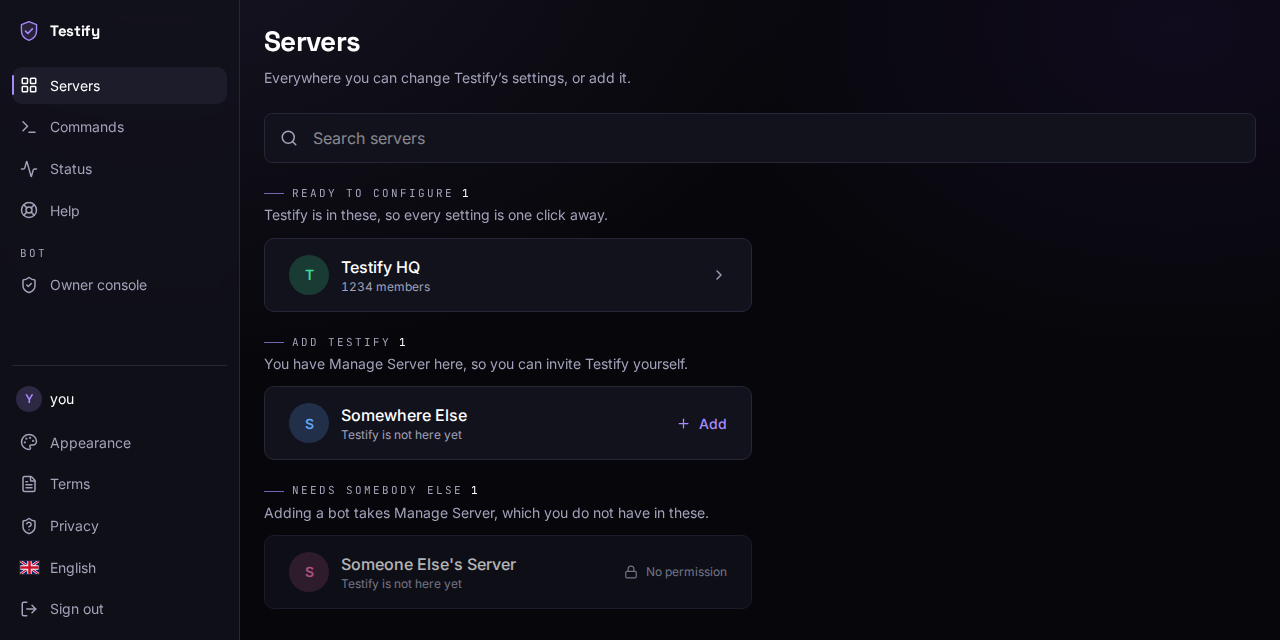
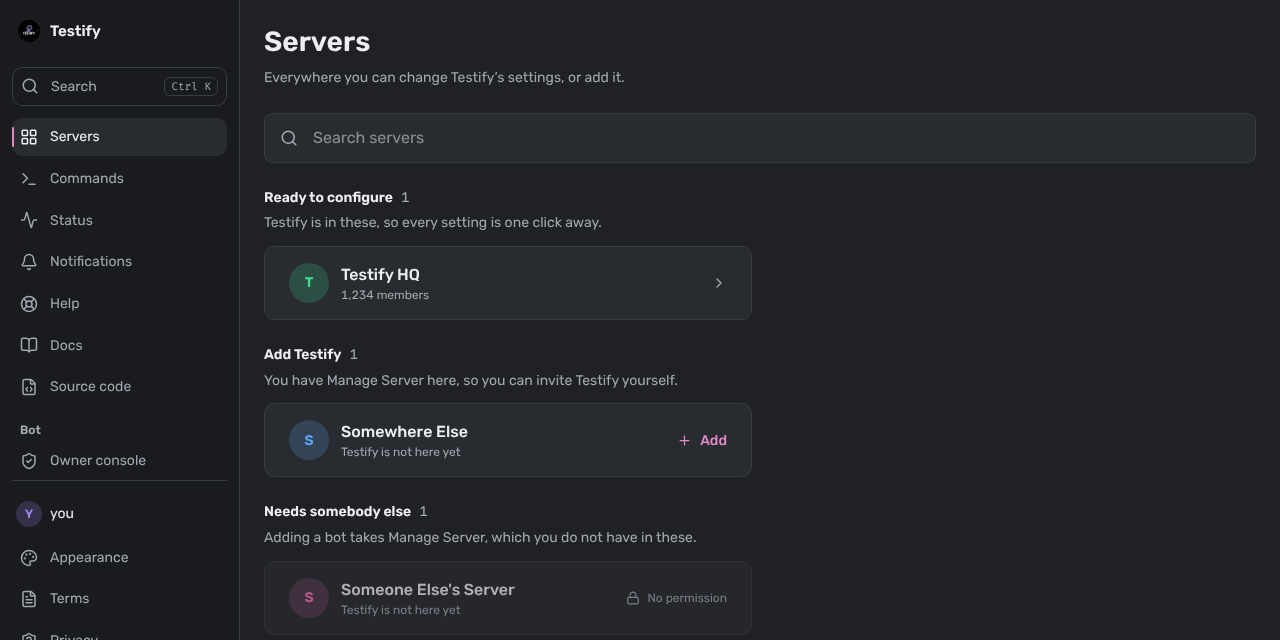
docs: Re-shot the README's dashboard screenshots in the new look

diff --git a/docs/dashboard/screenshots/README.md b/docs/dashboard/screenshots/README.md
@@ -18,20 +18,20 @@ fork carries them.**
 
 ## 🖼 The set
 
-| File                | Route                              | Theme | Size       |
-| ------------------- | ---------------------------------- | ----- | ---------- |
-| `overview.png`      | `/guilds/:guildId`                 | dark  | viewport   |
-| `guilds.png`        | `/guilds`                          | dark  | 640px tall |
-| `levelling.png`     | `/guilds/:guildId/levelling`       | light | viewport   |
-| `insights.png`      | `/guilds/:guildId/insights`        | dark  | whole page |
-| `warnings.png`      | `/guilds/:guildId/warnings`        | light | whole page |
-| `member.png`        | `/guilds/:guildId/members/:userId` | dark  | whole page |
-| `status.png`        | `/status`                          | dark  | whole page |
-| `casino.png`        | `/guilds/:guildId/casino`          | dark  | whole page |
-| `settings.png`      | `/guilds/:guildId/settings`        | dark  | viewport   |
-| `help.png`          | `/help`                            | light | 860px tall |
-| `appearance.png`    | `/appearance`                      | light | viewport   |
-| `owner-console.png` | `/owner?tab=usage`                 | dark  | viewport   |
+| File                | Route                              | Theme | Size        |
+| ------------------- | ---------------------------------- | ----- | ----------- |
+| `overview.png`      | `/guilds/:guildId`                 | dark  | 800px tall  |
+| `guilds.png`        | `/guilds`                          | dark  | 640px tall  |
+| `levelling.png`     | `/guilds/:guildId/levelling`       | light | 720px tall  |
+| `insights.png`      | `/guilds/:guildId/insights`        | dark  | whole page  |
+| `warnings.png`      | `/guilds/:guildId/warnings`        | light | whole page  |
+| `member.png`        | `/guilds/:guildId/members/:userId` | dark  | 1400px tall |
+| `status.png`        | `/status`                          | dark  | whole page  |
+| `casino.png`        | `/guilds/:guildId/casino`          | dark  | whole page  |
+| `settings.png`      | `/guilds/:guildId/settings`        | dark  | 900px tall  |
+| `help.png`          | `/help`                            | light | 860px tall  |
+| `appearance.png`    | `/appearance`                      | light | 900px tall  |
+| `owner-console.png` | `/owner?tab=usage`                 | dark  | 900px tall  |
 
 Both themes appear on purpose: a reader deciding whether to run this should see that the light one is real rather
 than an afterthought.
@@ -47,9 +47,13 @@ self-hoster a browser download for something only a maintainer runs.
 3. **Answer `/api/**` from the test stubs.** The handlers in `dashboard/src/test/handlers.ts` serve the same fake
    data the test suite uses, from `dashboard/src/test/fixtures/`; MSW's `getResponse(handlers, request)` turns an intercepted request into a response
    outside a browser. Put any override first in the list — the first handler that matches wins.
-4. **Set the theme before the page loads**, by writing `light` or `dark` to `localStorage` under `testify:theme`,
-   and turn reduced motion on so the backdrop is not caught mid-drift.
-5. **Load the route at 1280px wide** and wait for the network to settle. For a whole page, resize the viewport to
+4. **Set the theme before the page loads**, by writing `light` or `dark` to `localStorage` under `testify:theme`.
+   Override the stubs so the server is `Testify HQ` and the account `you`, give the overview a few features, a
+   missing permission and recent changes, and give the usage tab a month of runs, so each picture shows what its
+   caption says.
+5. **Answer `cdn.discordapp.com` with `dashboard/public/icon-512.png`**, so the bot wears its own picture rather than
+   the initial it falls back to when Discord's CDN cannot be reached.
+6. **Load the route at 1280px wide** and wait for the network to settle. For a whole page, resize the viewport to
    the page's own height before the shot rather than using a full-page capture — the sidebar is as tall as the
    viewport, and a full-page capture leaves it stopping part-way down.
 

diff --git a/README.md b/README.md
@@ -567,7 +567,7 @@ Discord and served **from inside the bot process** — no second service to depl
 > **It is off by default, and a bot-only install needs none of this.** Leave `DASHBOARD_ENABLED` unset and
 > nothing below applies.
 
-It follows your device's light or dark setting out of the box, comes in twelve accent colours, and speaks
+It follows your device's light or dark setting out of the box, comes in twelve accent colours or one you pick yourself, and speaks
 **English, Spanish, German, French, Italian and Russian** — picked from the browser's own language and changeable
 from the Appearance screen. All of it is per browser: nothing you choose there affects anybody else.
 
@@ -591,11 +591,11 @@ from the Appearance screen. All of it is per browser: nothing you choose there a
 </tr>
 <tr>
 <td valign="top"><img alt="Casino settings: the casino switch, a switch per game and the bet limits" src="docs/dashboard/screenshots/casino.png"><br><sub><b>Casino</b> — open it, switch games off, set bet limits</sub></td>
-<td valign="top"><img alt="Server settings, each card a description beside its controls" src="docs/dashboard/screenshots/settings.png"><br><sub><b>Settings</b> — the switches with no screen of their own</sub></td>
+<td valign="top"><img alt="Server settings as rows, each setting's name beside its control" src="docs/dashboard/screenshots/settings.png"><br><sub><b>Settings</b> — the switches with no screen of their own</sub></td>
 </tr>
 <tr>
 <td valign="top"><img alt="The help page: ask a question, first steps and what each section is for" src="docs/dashboard/screenshots/help.png"><br><sub><b>Help</b> — answers from written articles, nothing made up</sub></td>
-<td valign="top"><img alt="The appearance screen: theme, accent, motion and language" src="docs/dashboard/screenshots/appearance.png"><br><sub><b>Appearance</b> — theme, accent, motion and language</sub></td>
+<td valign="top"><img alt="The appearance screen: theme, twelve accents and a colour of your own" src="docs/dashboard/screenshots/appearance.png"><br><sub><b>Appearance</b> — theme, an accent or your own colour, motion and language</sub></td>
 </tr>
 <tr>
 <td colspan="2" align="center"><img alt="The owner console's usage tab" src="docs/dashboard/screenshots/owner-console.png" width="80%"><br><sub><b>Owner console</b> — usage by command and server, and who ran what for 30 days; visible only to the bot's owners</sub></td>
